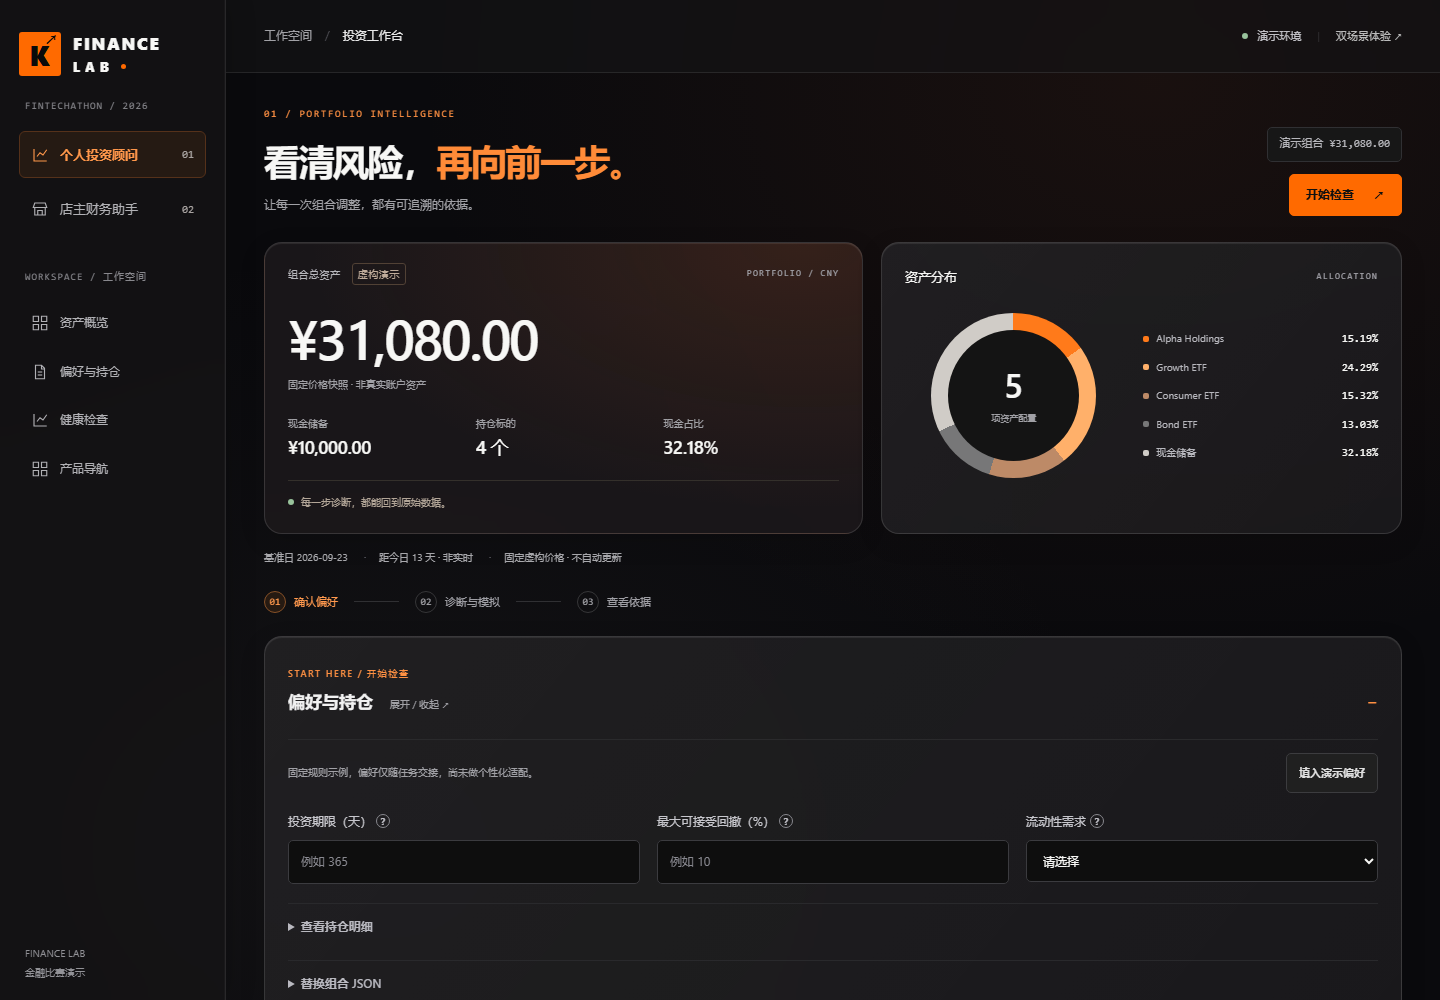
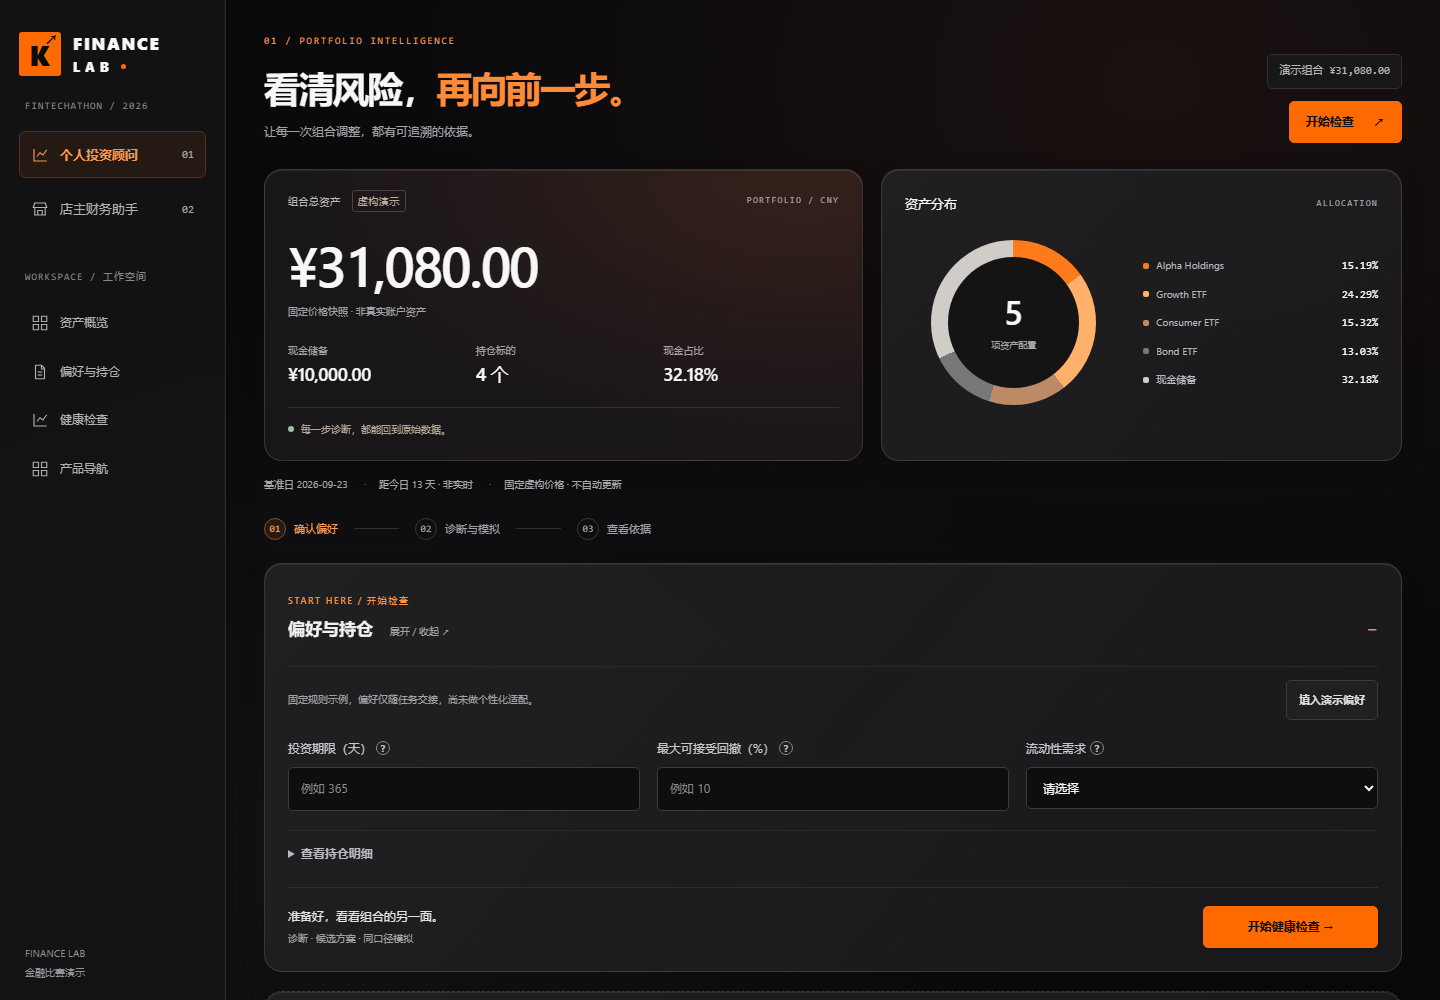
style: simplify the investment page by removing the secondary header

diff --git a/chenchen/versions/investment.html b/chenchen/versions/investment.html
@@ -2,7 +2,7 @@
 <html lang="zh-CN">
 <head><meta charset="utf-8"><meta name="viewport" content="width=device-width,initial-scale=1"><title>个人投资顾问 · 持仓健康管理</title><link rel="stylesheet" href="/versions/style.css"><link rel="stylesheet" href="/versions/product-overrides.css"><meta name="theme-color" content="#0a0a0a"><meta name="description" content="金融比赛双场景演示：持仓健康检查与店主现金管理。让每个决定都有可追溯的依据。"><link rel="icon" href="/versions/favicon.svg" type="image/svg+xml"><link rel="stylesheet" href="/versions/kosx.css"><link rel="stylesheet" href="/versions/glass.css"></head>
 <body class="investment-product">
-<a class="skip-link" href="#main-content">跳到主要内容</a><aside class="sidebar"><a class="lab-brand" href="/" aria-label="Finance Lab 展示首页"><span class="lab-symbol">K<span>↗</span></span><span>FINANCE<span class="brand-lab">LAB<span class="orange-dot"></span></span></span></a><div class="sidebar-caption">FINTECHATHON / 2026</div><nav class="workspace-switch" aria-label="切换产品"><a href="/investment" aria-current="page"><svg viewBox="0 0 24 24" fill="none" stroke="currentColor" stroke-width="1.5" aria-hidden="true"><path d="M4 4v16h17"/><path d="M8 14l4-5 4 3 5-7"/></svg><span>个人投资顾问</span><span class="nav-number">01</span></a><a href="/merchant" ><svg viewBox="0 0 24 24" fill="none" stroke="currentColor" stroke-width="1.5" aria-hidden="true"><path d="M3 10h18l-2-6H5z"/><path d="M5 10v10h14V10"/><path d="M9 20v-6h6v6"/></svg><span>店主财务助手</span><span class="nav-number">02</span></a></nav><div class="sidebar-caption section-label">WORKSPACE / 工作空间</div><nav class="section-nav" aria-label="本页导航"><a href="#overview"><svg viewBox="0 0 24 24" fill="none" stroke="currentColor" stroke-width="1.5" aria-hidden="true"><path d="M3 3h7v7H3z"/><path d="M14 3h7v7h-7z"/><path d="M3 14h7v7H3z"/><path d="M14 14h7v7h-7z"/></svg>资产概览</a><a href="#input-panel"><svg viewBox="0 0 24 24" fill="none" stroke="currentColor" stroke-width="1.5" aria-hidden="true"><path d="M6 3h8l4 4v14H6z"/><path d="M14 3v5h4"/><path d="M9 12h6"/><path d="M9 16h6"/></svg>偏好与持仓</a><a href="#input-panel" data-health-link><svg viewBox="0 0 24 24" fill="none" stroke="currentColor" stroke-width="1.5" aria-hidden="true"><path d="M4 4v16h17"/><path d="M8 14l4-5 4 3 5-7"/></svg>健康检查</a><a href="/catalog"><svg viewBox="0 0 24 24" fill="none" stroke="currentColor" stroke-width="1.5" aria-hidden="true"><path d="M3 3h7v7H3z"/><path d="M14 3h7v7h-7z"/><path d="M3 14h7v7H3z"/><path d="M14 14h7v7h-7z"/></svg>产品导航</a></nav><div class="sidebar-bottom"><p class="sidebar-footnote">FINANCE LAB<br>金融比赛演示</p></div></aside><header class="product-header lab-header"><div class="breadcrumb">工作空间 <span>/</span> <strong>投资工作台</strong></div><div class="header-status"><span class="status-dot"></span>演示环境 <span class="header-separator">|</span><a href="/catalog">双场景体验 ↗</a></div></header>
+<a class="skip-link" href="#main-content">跳到主要内容</a><aside class="sidebar"><a class="lab-brand" href="/" aria-label="Finance Lab 展示首页"><span class="lab-symbol">K<span>↗</span></span><span>FINANCE<span class="brand-lab">LAB<span class="orange-dot"></span></span></span></a><div class="sidebar-caption">FINTECHATHON / 2026</div><nav class="workspace-switch" aria-label="切换产品"><a href="/investment" aria-current="page"><svg viewBox="0 0 24 24" fill="none" stroke="currentColor" stroke-width="1.5" aria-hidden="true"><path d="M4 4v16h17"/><path d="M8 14l4-5 4 3 5-7"/></svg><span>个人投资顾问</span><span class="nav-number">01</span></a><a href="/merchant" ><svg viewBox="0 0 24 24" fill="none" stroke="currentColor" stroke-width="1.5" aria-hidden="true"><path d="M3 10h18l-2-6H5z"/><path d="M5 10v10h14V10"/><path d="M9 20v-6h6v6"/></svg><span>店主财务助手</span><span class="nav-number">02</span></a></nav><div class="sidebar-caption section-label">WORKSPACE / 工作空间</div><nav class="section-nav" aria-label="本页导航"><a href="#overview"><svg viewBox="0 0 24 24" fill="none" stroke="currentColor" stroke-width="1.5" aria-hidden="true"><path d="M3 3h7v7H3z"/><path d="M14 3h7v7h-7z"/><path d="M3 14h7v7H3z"/><path d="M14 14h7v7h-7z"/></svg>资产概览</a><a href="#input-panel"><svg viewBox="0 0 24 24" fill="none" stroke="currentColor" stroke-width="1.5" aria-hidden="true"><path d="M6 3h8l4 4v14H6z"/><path d="M14 3v5h4"/><path d="M9 12h6"/><path d="M9 16h6"/></svg>偏好与持仓</a><a href="#input-panel" data-health-link><svg viewBox="0 0 24 24" fill="none" stroke="currentColor" stroke-width="1.5" aria-hidden="true"><path d="M4 4v16h17"/><path d="M8 14l4-5 4 3 5-7"/></svg>健康检查</a><a href="/catalog"><svg viewBox="0 0 24 24" fill="none" stroke="currentColor" stroke-width="1.5" aria-hidden="true"><path d="M3 3h7v7H3z"/><path d="M14 3h7v7h-7z"/><path d="M3 14h7v7H3z"/><path d="M14 14h7v7h-7z"/></svg>产品导航</a></nav><div class="sidebar-bottom"><p class="sidebar-footnote">FINANCE LAB<br>金融比赛演示</p></div></aside>
 <main class="compact-main" id="main-content" tabindex="-1">
 <section class="hero compact-hero" id="overview"><div><p class="eyebrow">01 / PORTFOLIO INTELLIGENCE</p><h1>看清风险，<span class="accent-text">再向前一步。</span></h1><p class="muted hero-lede">让每一次组合调整，都有可追溯的依据。</p></div><div class="hero-actions"><span class="product-stamp" id="portfolio-stamp">固定虚构演示</span><a class="button hero-cta" href="#input-panel">开始检查 <span>↗</span></a></div></section>
 <section class="portfolio-overview" aria-label="演示组合概览"><article class="balance-card"><div class="row"><p class="section-kicker">组合总资产 <span class="tiny-badge">虚构演示</span></p><span class="terminal-label">PORTFOLIO / CNY</span></div><div id="portfolio-total" class="hero-number skeleton">—</div><p class="small muted">固定价格快照 · 非真实账户资产</p><div class="overview-numbers" id="overview-numbers"><div>正在读取组合…</div></div><div class="balance-card-bottom"><span class="status-dot"></span>每一步诊断，都能回到原始数据。</div></article><article class="allocation-card"><div class="row"><h2>资产分布</h2><span class="terminal-label">ALLOCATION</span></div><div class="allocation-content"><div class="allocation-donut" id="allocation-donut" role="img" aria-label="组合分布正在读取"><div><strong id="allocation-count">—</strong><small>项资产配置</small></div></div><ul class="allocation-legend" id="allocation-legend"><li>正在读取持仓…</li></ul></div></article></section><div class="data-strip" id="portfolio-health"><span>正在读取数据日期…</span></div>

diff --git a/chenchen/docs/ui-redesign/03-landing-and-glass.md b/chenchen/docs/ui-redesign/03-landing-and-glass.md
@@ -64,3 +64,5 @@
 2026-10-06 批注修订：以用户最新 K → 硬币动效说明为准，替换上一版铅笔场景。浏览器报告与本文截图已更新；同时在用户当前 4177 页面实际刷新确认。移动端额外检查变形和右端缩小后的图形边界，防止画面被裁切。
 
 2026-10-06 投资页批注修订：隐藏“替换组合 JSON”整个区块，保留初始化与提交的数据，不更改计算代码。对照改动前后同一演示输入，持仓快照、健康报告、候选方案、模拟结果完全一致（排除生成的记录编号）。35 组浏览器检查通过，补充验证隐藏区不显示、实际提交的组合仍等于演示快照、请求失败后偏好和持仓保留且可重试。
+
+2026-10-06 投资页精简：移除主导航下方的工作空间 / 演示环境横栏，内容自然上移；保留主导航的产品切换、侧栏产品目录、页面主要按钮及演示数据说明。仅调整投资页布局，未修改业务计算。
